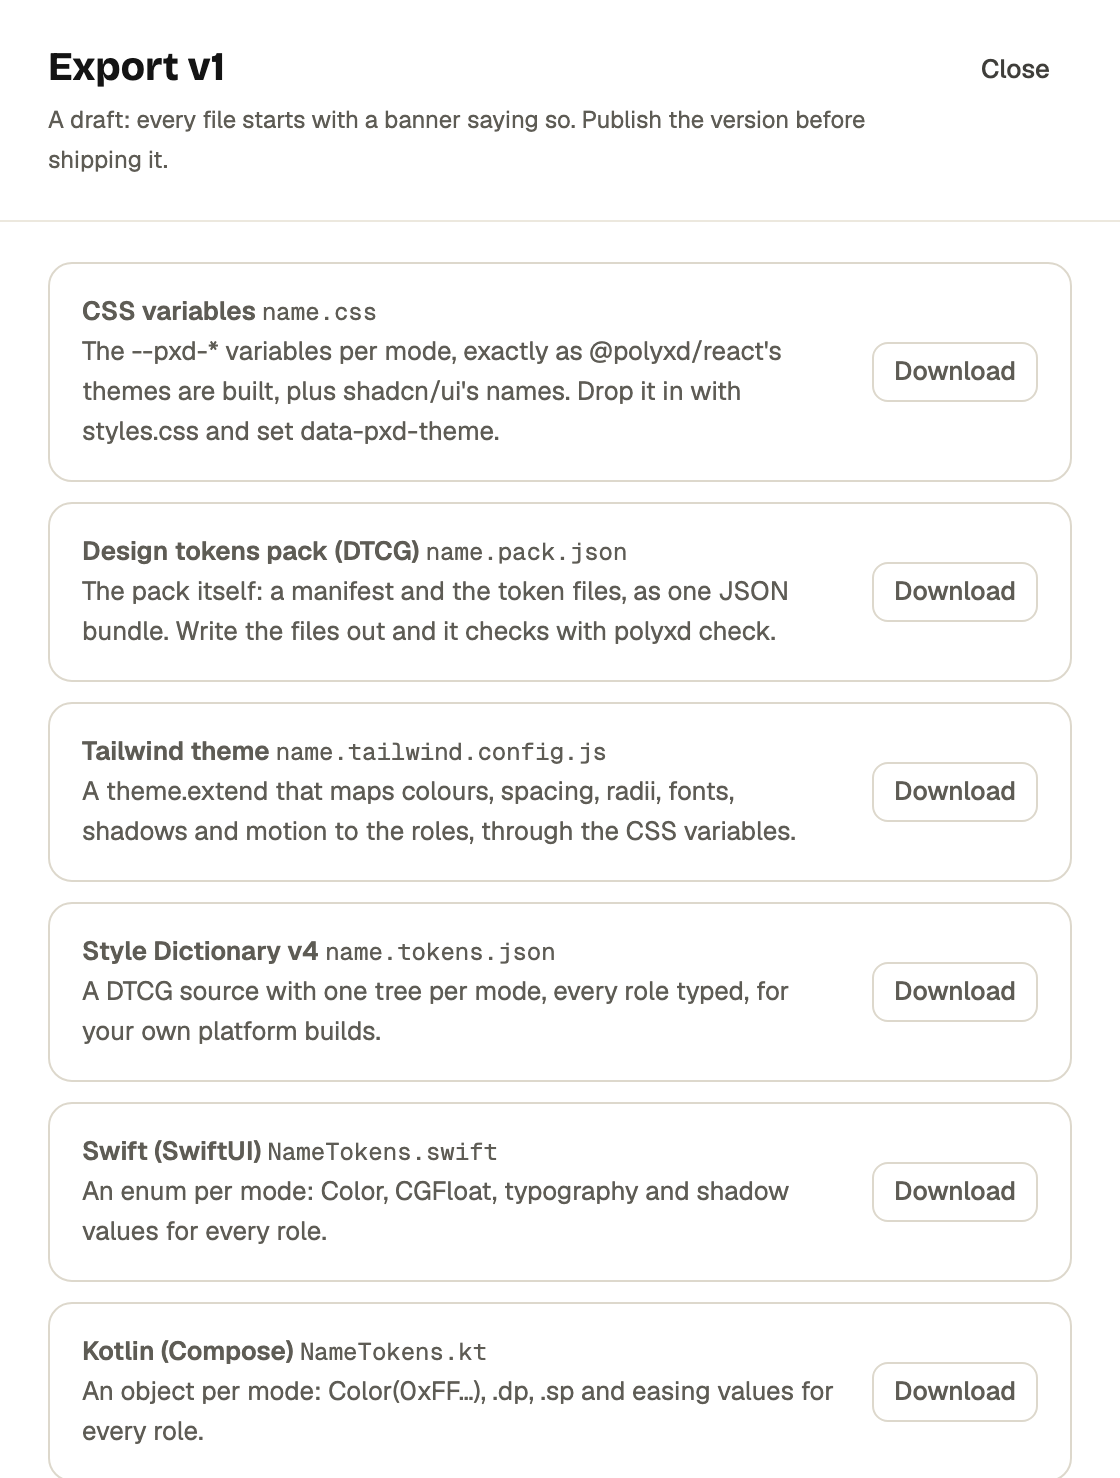
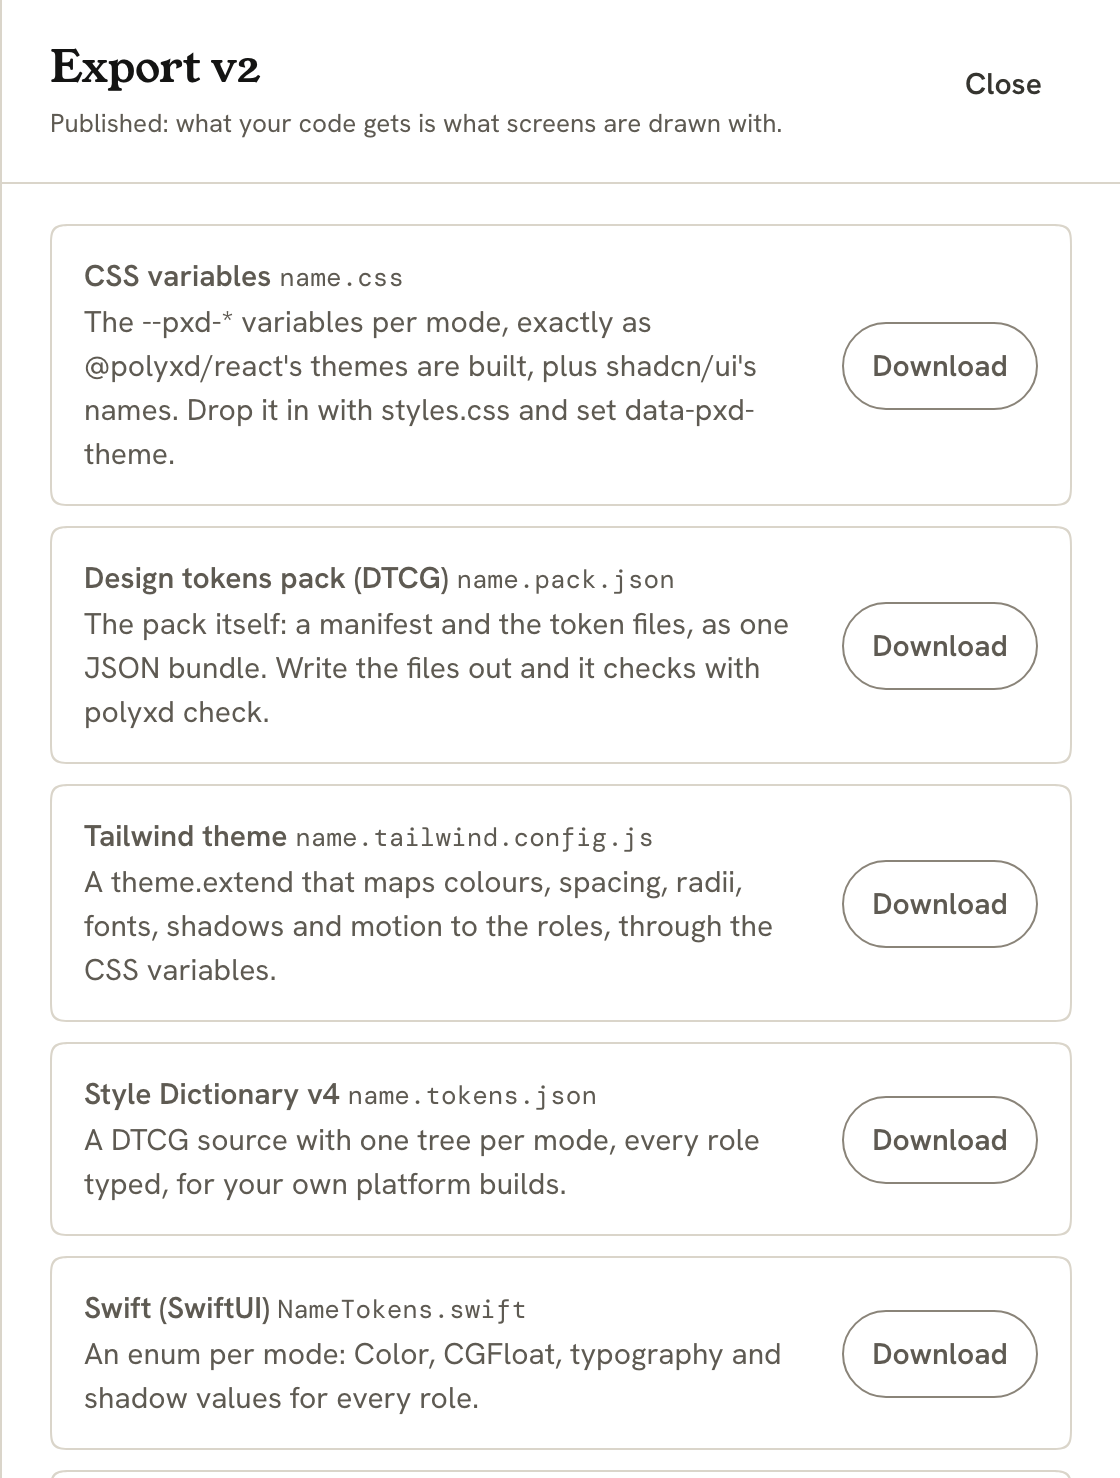
Studio: the landing's images recaptured in the new brand, with the script that makes them
scripts/landing-shots.ts seeds a local Studio through its own API (a test account with a random
password, the Harbourline workspace, the Sketch pack imported as a Tokens Studio file and mapped, a
Mono-based Harbourline design system turned to teal and published, the spec's Send money, Balance
and Order status published, and the Harbourline shell) and captures each image in Chromium, light
theme, at 2x and the sizes the landing lays them out at. The alt text follows what they show.

diff --git a/apps/studio/scripts/landing-shots.ts b/apps/studio/scripts/landing-shots.ts
@@ -1,0 +1,206 @@
+/**
+ * The landing's product images (public/landing/*.png), captured from Studio itself.
+ *
+ * It seeds a workspace the way a team would fill one: an account, the Harbourline workspace, the
+ * Sketch pack (packages/ds-sketch) imported as one Tokens Studio file and mapped, a
+ * Harbourline design system started from the Mono template with its brand ramp turned to a
+ * harbour teal and published as the default, the spec's Send money and two more screens
+ * published, and the Harbourline shell. Then it opens each page in Chromium, light theme, at twice
+ * the pixel density, at the sizes the landing lays them out at.
+ *
+ * Run it against a local Studio with a database of its own, so nothing real is touched:
+ *
+ *   npx wrangler d1 migrations apply studio-dev --local --persist-to /tmp/studio-shots   (in apps/studio)
+ *   npm run build -w @polyxd/studio && npx wrangler dev --persist-to /tmp/studio-shots    (in apps/studio)
+ *   node apps/studio/scripts/landing-shots.ts [--base http://localhost:8789] [--session <file> [--reuse]]
+ *
+ * The account is a local test one with a random password, made fresh each run; `--session` keeps
+ * its cookies (and the ids it made) in a file for other captures, and `--reuse` captures again from
+ * it without seeding. Locally no email goes out.
+ */
+import { readFile, writeFile } from "node:fs/promises";
+import { randomBytes } from "node:crypto";
+import { join } from "node:path";
+import { fileURLToPath } from "node:url";
+// Playwright comes with the workspace (@polyxd/verifier depends on it).
+import { chromium, type APIRequestContext, type Browser, type Page } from "playwright";
+import { rebrandChanges } from "../src/tokens/ramp.ts";
+import type { Graph } from "../src/import/read.ts";
+
+const arg = (name: string) => {
+  const i = process.argv.indexOf(`--${name}`);
+  return i > 0 ? process.argv[i + 1] : undefined;
+};
+const BASE = arg("base") ?? "http://localhost:8789";
+const SESSION = arg("session");
+const root = fileURLToPath(new URL("../../../", import.meta.url));
+const out = fileURLToPath(new URL("../public/landing/", import.meta.url));
+/** The harbour teal the Harbourline brand ramp is turned to. */
+const HUE = 200;
+
+async function call<T>(req: APIRequestContext, method: string, path: string, body?: unknown): Promise<T> {
+  const res = await req.fetch(`${BASE}${path}`, {
+    method,
+    headers: { origin: BASE, ...(body !== undefined && !(body as { multipart?: unknown }).multipart ? { "content-type": "application/json" } : {}) },
+    ...(body === undefined ? {} : (body as { multipart?: unknown }).multipart ? body as object : { data: JSON.stringify(body) }),
+  });
+  if (!res.ok()) throw new Error(`${method} ${path}: ${res.status()} ${await res.text()}`);
+  return (await res.json()) as T;
+}
+
+const example = async (name: string) => {
+  const { $schema: _, ...doc } = JSON.parse(await readFile(join(root, "packages/spec/examples", `${name}.json`), "utf8"));
+  doc.surface = { ...doc.surface, origin: "authored" };
+  return doc;
+};
+
+export interface Seeded {
+  slug: string;
+  sketch: { id: string; version: string };
+  harbourline: { id: string; version: string };
+  shell: string;
+}
+
+/** Everything the images show, made through the same API the app uses. */
+export async function seed(req: APIRequestContext): Promise<Seeded> {
+  const email = `mira.okafor+${Date.now()}@harbourline.test`;
+  await call(req, "POST", "/api/auth/sign-up/email", { name: "Mira Okafor", email, password: randomBytes(18).toString("base64url"), callbackURL: "/" });
+  let slug = "harbourline";
+  for (let n = 2; ; n++) {
+    try {
+      await call(req, "POST", "/api/workspaces", { name: "Harbourline", slug });
+      break;
+    } catch (e) {
+      if (!String(e).includes(": 409 ")) throw e;
+      slug = `harbourline-${n}`;
+    }
+  }
+  const w = `/api/w/${slug}`;
+
+  // Harbourline's own design system: the Mono template, its brand ramp turned to teal, published as the default.
+  const mono = await call<{ designSystemId: string; versionId: string }>(req, "POST", `${w}/design-systems/from-template`, { template: "mono", name: "Harbourline" });
+  const { graph } = await call<{ graph: Graph }>(req, "GET", `${w}/design-systems/${mono.designSystemId}/versions/${mono.versionId}/graph`);
+  const turned = await call<{ versionId: string }>(req, "POST", `${w}/design-systems/${mono.designSystemId}/versions/${mono.versionId}/edit`, { changes: rebrandChanges(graph, HUE), notes: "Harbour teal" });
+  await call(req, "POST", `${w}/design-systems/${mono.designSystemId}/versions/${turned.versionId}/publish`);
+
+  // The Sketch pack, imported the way most teams bring tokens: one Tokens Studio file, its sets the
+  // pack's token files and its themes the pack's modes. Exact matches accepted, as the mapping offers.
+  const pack = join(root, "packages/ds-sketch");
+  const manifest = JSON.parse(await readFile(join(pack, "manifest.json"), "utf8")) as { modes: Record<string, string[]> };
+  const setOf = (file: string) => file.replace(/^tokens\//, "").replace(/\.json$/, "");
+  const files = [...new Set(Object.values(manifest.modes).flat())];
+  const studio: Record<string, unknown> = {};
+  for (const f of files) studio[setOf(f)] = JSON.parse(await readFile(join(pack, f), "utf8"));
+  // A mode's own file is enabled; the files every mode shares are its source.
+  const shared = files.filter((f) => Object.values(manifest.modes).every((m) => m.includes(f)));
+  studio.$themes = Object.entries(manifest.modes).map(([mode, list]) => ({ id: mode, name: mode, selectedTokenSets: Object.fromEntries(list.map((f) => [setOf(f), shared.includes(f) && f !== "tokens/semantic.json" ? "source" : "enabled"])) }));
+  studio.$metadata = { tokenSetOrder: files.map(setOf) };
+  const imported = await call<{ designSystemId: string; versionId: string }>(req, "POST", `${w}/design-systems/import`, {
+    multipart: { name: "Sketch", file: { name: "sketch.tokens.json", mimeType: "application/json", buffer: Buffer.from(JSON.stringify(studio, null, 2)) } },
+  });
+  await call(req, "POST", `${w}/design-systems/${imported.designSystemId}/versions/${imported.versionId}/accept-exact`);
+
+  // Screens: the spec's examples as Harbourline's, published, and the shell they sit in.
+  for (const [name, key, file] of [["Send money", "send-money", "money-send-form"], ["Balance", "balance", "money-balance-overview"], ["Order status", "order-status", "shop-order-status"]] as const) {
+    const doc = await example(file);
+    await call(req, "POST", `${w}/screens`, { name, key, intent: doc.surface.intent, document: doc, notes: "From the spec's example" });
+    await call(req, "POST", `${w}/screens/${key}/versions/1/publish`);
+  }
+  // The shell as New screen → Shell makes it: the example without its maintenance banner and sailing times.
+  const shell = await example("shell-product");
+  const frame = shell.components.find((c: { id: string }) => c.id === shell.root);
+  delete frame.banner;
+  const aside = shell.components.find((c: { id: string }) => c.id === frame.aside);
+  aside.children = aside.children.filter((id: string) => id !== "sailing");
+  shell.components = shell.components.filter((c: { id: string }) => c.id !== "banner" && c.id !== "sailing");
+  delete shell.data.notice;
+  delete shell.data.nextSailing;
+  shell.data.legal = `© ${new Date().getFullYear()} Harbourline`;
+  shell.data.release = "";
+  await call(req, "POST", `${w}/screens`, { name: "Harbourline", key: "shell", intent: "product.shell", document: shell });
+
+  return { slug, sketch: { id: imported.designSystemId, version: imported.versionId }, harbourline: { id: mono.designSystemId, version: turned.versionId }, shell: "shell" };
+}
+
+/** Waits for the page's fonts, its lazy chunks and the mark to settle. */
+export async function settle(page: Page) {
+  await page.waitForLoadState("networkidle");
+  await page.evaluate(() => document.fonts.ready);
+  await page.waitForTimeout(400);
+}
+
+/** The Screens editor on the shell, the AppBar selected, a published screen in the Outlet. */
+export async function openShell(page: Page, s: Seeded, mode: "light" | "dark") {
+  await page.goto(`${BASE}/w/${s.slug}/screens/${s.shell}`);
+  await page.getByRole("treeitem", { name: "AppBar bar" }).click();
+  await page.getByLabel("Screen in the Outlet").selectOption("send-money");
+  if (mode === "dark") await page.getByRole("group", { name: "Mode" }).getByRole("button", { name: "Dark" }).click();
+  await settle(page);
+  await page.mouse.move(0, 0);
+}
+
+async function capture(browser: Browser, s: Seeded, state: Awaited<ReturnType<APIRequestContext["storageState"]>>) {
+  const shot = async (viewport: { width: number; height: number }, file: string, go: (page: Page) => Promise<void | (() => Promise<Buffer>)>) => {
+    const context = await browser.newContext({ viewport, deviceScaleFactor: 2, colorScheme: "light", reducedMotion: "reduce", storageState: state });
+    const page = await context.newPage();
+    const custom = await go(page);
+    await settle(page);
+    const png = custom ? await custom() : await page.screenshot({ animations: "disabled" });
+    await writeFile(join(out, file), png);
+    console.log(`wrote public/landing/${file}`);
+    await context.close();
+  };
+  const ds = (d: { id: string; version: string }, tail: string) => `${BASE}/w/${s.slug}/design-systems/${d.id}/versions/${d.version}/${tail}`;
+
+  await shot({ width: 1600, height: 1000 }, "scan.png", async (page) => {
+    await page.goto(ds(s.sketch, "scan"));
+  });
+  await shot({ width: 1600, height: 1000 }, "mapping.png", async (page) => {
+    await page.goto(ds(s.sketch, "map"));
+    // Every role, not only the ones that need a look (none do once the exact matches are in).
+    const look = page.getByRole("button", { name: /^Needs a look/ });
+    if ((await look.getAttribute("aria-pressed")) === "true") await look.click();
+    await page.getByRole("row", { name: /color\.text\.default/ }).first().click();
+  });
+  await shot({ width: 1600, height: 1000 }, "tokens.png", async (page) => {
+    await page.goto(ds(s.harbourline, "edit"));
+    await page.getByRole("button", { name: /^400/ }).first().click();
+  });
+  // The drawers are captured on their own, at the width they open at, from the top.
+  const top = (page: Page, name: string, height: number) => async () => {
+    const box = (await page.getByRole("dialog", { name }).boundingBox())!;
+    return page.screenshot({ clip: { x: box.x, y: 0, width: box.width, height }, animations: "disabled" });
+  };
+  await shot({ width: 1600, height: 1000 }, "export.png", async (page) => {
+    await page.goto(ds(s.harbourline, "edit"));
+    await page.getByRole("button", { name: "Export" }).click();
+    return top(page, "Export", 739);
+  });
+  await shot({ width: 1600, height: 1000 }, "templates.png", async (page) => {
+    await page.goto(`${BASE}/w/${s.slug}/design-systems`);
+    await page.getByRole("button", { name: "Start from a template" }).first().click();
+    await page.getByRole("option", { name: /^Mono/ }).click();
+    return top(page, "Start from a template", 690);
+  });
+  await shot({ width: 1920, height: 1000 }, "screens.png", (page) => openShell(page, s, "light"));
+  await shot({ width: 1920, height: 1000 }, "screens-dark.png", (page) => openShell(page, s, "dark"));
+}
+
+if (import.meta.url === `file://${process.argv[1]}`) {
+  const browser = await chromium.launch();
+  try {
+    // --reuse with --session captures again from a workspace seeded before, rather than a new one.
+    const kept = SESSION && process.argv.includes("--reuse") ? JSON.parse(await readFile(SESSION, "utf8").catch(() => "null")) : null;
+    let s: Seeded, state;
+    if (kept) ({ seeded: s, state } = kept);
+    else {
+      const context = await browser.newContext();
+      s = await seed(context.request);
+      state = await context.request.storageState();
+      if (SESSION) await writeFile(SESSION, JSON.stringify({ base: BASE, seeded: s, state }, null, 2));
+    }
+    await capture(browser, s, state);
+  } finally {
+    await browser.close();
+  }
+}

diff --git a/apps/studio/src/app/pages/Landing.tsx b/apps/studio/src/app/pages/Landing.tsx
@@ -72,8 +72,8 @@ export function Landing() {
             <Feature
               n={1}
               title="Your design system, as it is"
-              image={{ src: "/landing/scan.png", w: 1600, h: 1000, alt: "The scan of a design system started from the Sketch template: 275 tokens counted by tier and by type, a light and a dark mode, every reference resolving" }}
-              second={{ src: "/landing/templates.png", w: 720, h: 690, alt: "The template chooser: Blank, Mono, Civic, Sketch, Wireframe, Editorial, Pastel and Health, each with a line of character and a strip of swatches from its own tokens" }}
+              image={{ src: "/landing/scan.png", w: 1600, h: 1000, alt: "The scan of the Sketch pack imported as a Tokens Studio file: 275 tokens counted by tier and by type, a light and a dark mode, every reference resolving" }}
+              second={{ src: "/landing/templates.png", w: 720, h: 690, alt: "The template chooser: Blank, Mono, Civic, Sketch, Wireframe and Editorial, each with a line of character and a strip of swatches from its own tokens" }}
             >
               Import it from an npm package, public or private, a packed <code>.tgz</code>, a Tokens Studio file, a W3C DTCG file, or CSS custom properties. Push it from where the tokens are built with <code>polyxd studio push</code>, so a release step can run it. Or start from one of twelve templates. Either way the scan shows what was found: tokens by tier and type, modes, aliases, broken and circular references, deprecated tokens.
             </Feature>
@@ -87,7 +87,7 @@ export function Landing() {
             <Feature
               n={3}
               title="Tune it, export it"
-              image={{ src: "/landing/tokens.png", w: 1600, h: 1000, alt: "The tokens editor: the brand colour ramp as a row of swatches, each marked with the roles that read it and whether their contrast pairs pass, with the primitive's value open for editing" }}
+              image={{ src: "/landing/tokens.png", w: 1600, h: 1000, alt: "The tokens editor: a brand colour ramp turned to teal, as rows of swatches, each marked with the roles that read it and whether their contrast pairs pass, with the primitive's value open for editing" }}
               second={{ src: "/landing/export.png", w: 560, h: 739, alt: "The export dialog: CSS variables, a DTCG pack, a Tailwind theme, a Style Dictionary source, a Swift enum and a Kotlin object" }}
             >
               Primitives by group, colour ramps as swatches that show which roles read each step and whether their contrast pairs pass, scales as lists. Change a value and every alias through it follows, with contrast measured again as you type; save the edits as a new draft version. Export any version for code: CSS variables, a DTCG pack, a Tailwind theme, a Style Dictionary source, a Swift enum or a Kotlin object, from the Export button or the API with a key.

diff --git a/apps/studio/README.md b/apps/studio/README.md
@@ -81,6 +81,8 @@ npm run dev -w @polyxd/studio     # builds the app, then wrangler dev on http://
 
 Create an account with any email: locally no email goes out, so it works at once. Tests: `npm test -w @polyxd/studio`.
 
+The landing's product images are captured from a running Studio: against a local one with a database of its own (`--persist-to` a scratch directory for both the migration and `wrangler dev`), `node apps/studio/scripts/landing-shots.ts` makes a test account and the Harbourline workspace (the Sketch pack imported, a Mono-based design system rebranded and published, the spec's screens and the shell) and writes `public/landing/*.png`. `node apps/studio/scripts/og.ts` then writes the social image, `public/og.png`, from the brand and one of those images.
+
 ## Deploy your own
 
 `wrangler.jsonc` has a `production` environment; copy it and change the route to your domain.
@@ -107,4 +109,5 @@ The hosted one at studio.polyxd.com is this same configuration.
 | `src/screens/` | Screens, shared by the Worker and the app: the schema read without ajv (Workers refuse generated code), the checker with the spec's shell rules, the tree edits |
 | `src/app/` | The React app; `src/app/screen/` is the editor's tree, preview, property panel and themes; `pages/TokensEditor.tsx` the tokens editor; `pages/Landing.tsx` and `landing.css` the landing, `pages/SignIn.tsx` and `signin.css` the sign-in |
 | `migrations/` | D1 schema |
+| `scripts/` | `landing-shots.ts` (the landing's images, from a seeded local Studio) and `og.ts` (the social image) |
 | `../../design/studio` | The design every screen here follows |
